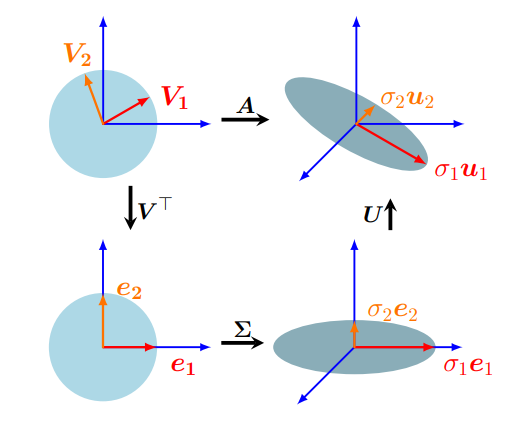
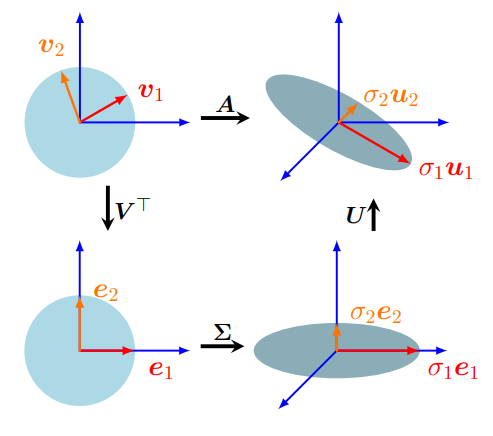
update ch4-6, ch4-7 and update contents of ch4-4, ch4-5

diff --git a/_posts/2022-07-17-ch4-6.md b/_posts/2022-07-17-ch4-6.md
@@ -1,0 +1,107 @@
+---
+layout: article
+aside:
+    toc: true
+sidebar:
+    nav: docs-en
+title: 6. Matrix Approximation
+---
+
+# Matrix Approximation
+
+4.5장을 통해 행렬 $\boldsymbol{A}\in\mathbb{R}^{m\times n}$ 를 3개의 행렬($\boldsymbol{U\Sigma V}^\top$) 곱으로 분해하는 SVD에 대해 알아봤습니다. 이때, 행렬 $\boldsymbol{U}\in\mathbb{R}^{m\times m}$ 과 $\boldsymbol{V}\in\mathbb{R}^{n\times n}$ 는 orthogonal이며, $\boldsymbol{\Sigma}$ 는 주대각 성분이 singular value인 행렬입니다.
+
+이번 장에서는 Full SVD factorization을 수행하는 대신, 행렬 $\boldsymbol{A}$ 를 더 간단한(low-rank) 행렬 $\boldsymbol{A}_i$ 들의 합으로 SVD를 나타내는 것에 대해 살펴봅니다. 이는 matrix approximation으로 full SVD 보다 연산량이 적습니다.
+
+Rank-1 행렬 $\boldsymbol{A}\in\mathbb{R}^{m\times n}$ 은 다음과 같이 구성합니다.
+
+$$ \boldsymbol{A}_i := \boldsymbol{u}_i\boldsymbol{v}_i^\top \tag{4.90} $$
+
+이는 $\boldsymbol{U}$ 와 $\boldsymbol{V}$ 의 i번째 orthogonal column vector의 외적(outer product) 입니다.
+
+<div align="center"><img src="{{ site.baseurl }}/assets/images/figures/figure4.11.png" height=300px></div>
+
+위 그림은 스톤헨지 사진을 행렬 $\boldsymbol{A}\in\mathbb{R}^{1432\times1910}$ 로 나타낸 것이며 식 (4.90)에 의해 정의되는 몇 가지 외적 $\boldsymbol{A}_i$ 을 보여줍니다.
+
+Rank $r$ 의 행렬 $\boldsymbol{A}\in\mathbb{R}^{m\times n}$ 은 rank-1 행렬 $\boldsymbol{A}_i$ 의 합으로 다음과 같이 나타낼 수 있습니다.
+
+$$ \boldsymbol{A} = \sum_{i=1}^r \sigma_i\boldsymbol{u}_i\boldsymbol{v}_i^\top = \sum_{i=1}^r\sigma_i\boldsymbol{A}_i \tag{4.91} $$
+
+위 식은 $\boldsymbol{A}\_i$ 와 singular value $\sigma_i$ 의 가중합으로 표현됩니다. Singular value matrix $\boldsymbol{\Sigma}$ 의 대각 구조는 오직 일치하는 left/right-singular vectors $\boldsymbol{u}\_i\boldsymbol{v}\_i^\top$ 과 곱해지고 대응되는 singular value $\sigma_i$ 로 scaling 되기 때문에 성립합니다. $\boldsymbol{\Sigma}$ 는 대각행렬이기 때문에 $i \neq j$ 인 모든 $\sum_{ij}\boldsymbol{u}_i\boldsymbol{v}_j^\top$ 항은 사라집니다. 또한, $i > r$ 인 모든 항은 대응되는 singular value가 0이기 때문에 사라지게 됩니다.
+
+식 (4.90)에서 rank-1 행렬 $\boldsymbol{A}_i$ 를 도입했고, 이들 더해서 rank-r 행렬 $\boldsymbol{A}$ 를 얻었습니다. 만약 모든 행렬 $\boldsymbol{A}_i, i = 1, \dotsc, r$ 이 더해지지 않고 중간값 $k < r$ 까지 더해진다면, $\boldsymbol{A}$ 의 ***rank-r approximation*** 을 얻게 됩니다.
+
+$$ \hat{\boldsymbol{A}}(k) := \sum_{i=1}^k\sigma_i\boldsymbol{u}_i\boldsymbol{v}_i^\top = \sum_{i=1}^k\sigma_i\boldsymbol{A}_i \tag{4.92} $$
+
+이때, $\text{rk}(\hat{\boldsymbol{A}}(k)) = k$ 입니다. 아래 그림은 원본 이미지 $\boldsymbol{A}$ 의 low-rank approximations $\hat{\boldsymbol{A}}(k)$ 를 보여줍니다.
+
+<div align="center"><img src="{{ site.baseurl }}/assets/images/figures/figure4.12.png" height=300px></div>
+
+위 그림을 잘 살펴보면 rank-5 approximation로 갈수록 바위의 모양이 더 명확해진다는 것을 알 수 있습니다. 원본 이미지에서는 $1,432\times1,910=2,735,120$ 개의 값이 필요하지만, rank-5 approximation에서는 오직 5개의 singular values와 5개의 left/right-singular vectors만 저장하면 됩니다. 따라서, rank-5 approximation에서는 $5\cdot(1,432 + 1,910 + 1) = 16,715$ 개의 숫자만 저장하면 되고 이는 원본의 0.6% 정도 입니다.
+
+$\boldsymbol{A}$ 와 $\boldsymbol{A}$ 의 rank-$k$ approximation $\hat{\boldsymbol{A}}(k)$ 의 차이(error)를 측정하려면 *norm*의 개념이 필요합니다 ([3.1장]({{ site.baseurl }}/2022/07/07/ch3-1.html) 참조). 3.1장에서는 vector에 대한 norm을 사용하여 vector의 length를 측정했습니다. 이를 통해서 행렬에 대한 norm을 정의할 수 있습니다.
+
+> **Definition 4.23** (Spectral Norm of a Matrix).
+> <br>
+> 모든 $\boldsymbol{x}\in\mathbb{R}^n\backslash\lbrace\boldsymbol{0}\rbrace$ 에 대해, 행렬 $\boldsymbol{A}\in\mathbb{R}^{m\times n}$ 의 ***spectral norm*** 은 다음과 같이 정의됩니다.
+> 
+> $$ \|\boldsymbol{A}\|_2 := \max_x \frac{\|\boldsymbol{Ax}\|_2}{\|x\|_2} \tag{4.93} $$
+
+우항에 있는 벡터에 대한 Euclidean norm에서 아래 첨자가 2인 것과 유사하게, 좌항의 행렬의 norm에도 아래첨자를 적어줍니다. 식 (4.93)의 spectral norm은 vector $\boldsymbol{x}$ 에 행렬 $\boldsymbol{A}$ 를 곱했을 때의 최대 길이를 결정합니다.
+
+> **Theorem 4.24**. $\boldsymbol{A}$ 의 *spectral norm* 은 $\boldsymbol{A}$ 의 가장 큰 singular value $\sigma_1$ 입니다.
+
+Theorem 4.24는 아래에서 Example을 통해 증명하도록 하겠습니다.
+
+> **Theorem 4.25** (Eckart-Young Theorem). Rank-r인 행렬 $\boldsymbol{A}\in\mathbb{R}^{m\times n}$ 과 rank-k인 행렬 $\boldsymbol{B}\in\mathbb{R}^{m\times n}$ 이 있고 $k \leq r$ 일 때, 다음의 식이 성립합니다.
+> 
+> $$ \begin{align*} \hat{\boldsymbol{A}}(k) &= \arg\min{}_{\text{rk}(B)=k} \|\boldsymbol{A} -\boldsymbol{B}\|_2 \tag{4.94} \\ \|\boldsymbol{A}-\hat{\boldsymbol{A}}(k)\|_2 &= \sigma_{k+1} \tag{4.95} \end{align*} $$
+
+Eckart-Young theorem은 rank-k approximation을 사용하여 $\boldsymbol{A}$ 를 근사했을 때, error가 얼만큼 발생하는지 나타냅니다. SVD를 통해 얻은 rank-k approximation은 full-rank matrix $\boldsymbol{A}$ 로부터 더 낮은 차원인 최대 rank-k 행렬로의 projection으로 해석할 수 있습니다. 모든 가능한 projections 에서 SVD는 $\boldsymbol{A}$ 와 rank-k approximation 간의 error(by spectral norm)를 최소화합니다.
+
+<br>
+
+식 (4.95)가 왜 성립하는지 이해하기 위해 몇 가지 단계를 되돌아가보도록 하겠습니다. $\boldsymbol{A} - \hat{\boldsymbol{A}}(k)$ 간의 차이는 rank-k approximation에 사용되고 남은 나머지 rank-1 행렬들의 합이라는 것을 확인할 수 있습니다.
+
+$$ \boldsymbol{A}-\hat{\boldsymbol{A}}(k) = \sum_{i=k+1}^r\sigma_i\boldsymbol{u}_i\boldsymbol{v}_i^\top \tag{4.96} $$
+
+Theorem 4.24에 의해, 이 difference matrix의 spectral norm이 $\sigma_{k+1}$ 라는 것을 알 수 있습니다. 이제 식 (4.94)를 조금 더 자세히 살펴보겠습니다. 만약 또 다른 행렬 $\boldsymbol{B}$ ($\text{rk}(\boldsymbol{B}) \leq k$) 가 다음을 만족한다면,
+
+$$ \|\boldsymbol{A}-\boldsymbol{B}\|_2 < \|\boldsymbol{A}-\hat{\boldsymbol{A}}(k)\|_2 \tag{4.97} $$
+
+적어도 (n-k)-차원인 null space $Z\subseteq\mathbb{R}^n$ 이 존재합니다. 만약 $\boldsymbol{x} \in Z$ 라면 $\boldsymbol{Bx} = 0\boldsymbol{0}$ 을 만족하며, 이는 다음 식을 만족시킵니다.
+
+$$ \|\boldsymbol{Ax}\|_2 = \|(\boldsymbol{A}-\boldsymbol{B})\boldsymbol{x}\|_2 \tag{4.98} $$
+
+그리고 행렬의 norm에 Cauchy-Schwartz inequality ([3.17]({{ site.baseurl }}/2022/07/08/ch3-3.html))를 적용하여 다음의 식을 얻습니다.
+
+$$ \|\boldsymbol{Ax}\|_2 \leq \|\boldsymbol{A}-\boldsymbol{B}\|_2\|\boldsymbol{x}\|_2 < \sigma_{k+1}\|\boldsymbol{x}\|_2 \tag{4.99} $$
+
+그러나 $\\|\boldsymbol{Ax}\\|\_2 \geq \sigma_{k+1}\\|\boldsymbol{x}\\|_2$ 인 (k+1)-차원의 subspace가 존재하며, 이 subspace는 $\boldsymbol{A}$ 의 right-sigular vectors $\boldsymbol{v}_j, j \leq k+1$ 에 의해 span 됩니다. 두 spaces에 nonzero vector가 존재해야 하기 때문에 두 spaces의 차원을 더하면 $n$보다 큰 값이 나옵니다. 이는 [2.7.3장]()의 rank-nullity theorem (Theorem 2.24)와 모순됩니다. **(완벽히 이해는 되지 않는 부분입니다 ㅠ.ㅠ)**
+
+Eckart-Young theorem은 SVD를 사용하여 principled,optimal한 방식으로 rank-$r$ 인 행렬 $\boldsymbol{A}$ 를 rank-$k$ 행렬 $\hat{\boldsymbol{A}}$ 로 줄일 수 있다는 것을 의미합니다. 이는 rank-$k$ 행렬로의 approximation을 lossy compression의 한 형태로 해석할 수 있습니다. 따라서, 행렬의 low-rank approximation은 image processing, noise filtering, regularization of ill-posed problems 와 같은 머신러닝 applications에서 사용됩니다. 또한, 10장에서 살펴볼 dimensionality reduction이나 PCA에서 핵심적인 역할을 수행합니다.
+
+<br>
+
+> **Example 4.15** (Finding Structure in Movie Ratings and Comsumers)
+> <br>
+> [4.5장]({{ site.baseurl }}/2022/07/16/ch4-5.html#eigenvalue-decomposition-vs-singular-value-decomposition)에서 살펴본 Example 4.14에서 살펴본 original data matrix를 low-rank approximation을 사용하여 근사해보도록 하겠습니다. Example 4.14에서 첫 번째 singular value는 science fiction theme와 science fiction을 선호하는 사람들에 대한 notion을 포착했습니다. 따라서 movie-rating matrix의 rank-1 decomposition에 오직 첫 번째 singular value term만을 사용하여, 다음과 같이 predicated ratings를 얻을 수 있습니다.
+> 
+> $$ \begin{align*} \boldsymbol{A}_1 &= \boldsymbol{u}_1\boldsymbol{v}_1^\top = \begin{bmatrix}-0.6710\\-0.7197\\-0.0939\\-0.1515\end{bmatrix}\begin{bmatrix}-0.7367&-0.6515&-0.1811\end{bmatrix} \tag{4.100a} \\ &= \begin{bmatrix}0.4943&0.4372&0.1215\\0.5302&0.4689&0.1303\\0.0692&0.0612&0.0170\\0.1116&0.0987&0.0274\end{bmatrix} \tag{4.100b} \end{align*} $$
+> 
+> 이렇게 구한 rank-1 approximation $\boldsymbol{A}_1$ 은 Ali(첫 번째 열)와 Beatrix(두 번째 열)가 *Star Wars*(첫 번째 행)나 *Bladerunner*(두 번째 행) 와 같은 science fiction 영화를 좋아한다는 것을 말해줍니다 (각 요소의 값이 0.4 이상). 그러나, Chandra(세 번재 열)의 ratings를 예측하는 것은 실패했습니다.
+> 
+> 이는 자연스러운 결과인데, 첫 번째 singular value에서 Chandra가 좋아하는 타입의 영화는 포착되지 않았기 때문입니다. 두 번째 singular value에 대해 rank-1 approximation을 적용하면 chandra가 좋아하는 영화 타입을 좋아하는 사람들에 대해 예측 ratings를 구할 수 있습니다.
+> 
+> $$ \begin{align*} \boldsymbol{A}_2 &= \boldsymbol{u}_2\boldsymbol{v}_2^\top = \begin{bmatrix}0.0236\\0.2054\\-0.7705\\-0.6030\end{bmatrix}\begin{bmatrix}0.0852&0.1762&-0.9807\end{bmatrix} \tag{4.101a} \\ &= \begin{bmatrix}0.0020&0.0042&-0.0231\\0.0175&0.0362&-0.2014\\-0.0656&-0.1358&0.7556\\-0.0514&-0.1063&0.5914\end{bmatrix} \tag{4.101b} \end{align*} $$
+> 
+> 두 번째 rank-1 approximation $\boldsymbol{A}_2$ 에서는 Chandra가 선호는 영화에 대한 rating을 담고 있다는 것을 알 수 있습니다. 위에서 구한 두 rank-1 approximation을 통해 rank-2 approximation $\hat{\boldsymbol{A}}(2)$ 를 도출해낼 수 있는데, 두 rank-1 approximation을 다음과 같이 결합하면 됩니다.
+> 
+> $$ \hat{\boldsymbol{A}}(2) = \sigma_1\boldsymbol{A}_1 + \sigma_2\boldsymbol{A}_2 = \begin{bmatrix}4.7801&4.2419&1.0244\\5.2252&4.7522&-0.0250\\0.2493&-0.2743&4.9724\\0.7495&0.2756&4.0278\end{bmatrix} \tag{4.102} $$
+> 
+> $\hat{\boldsymbol{A}}(2)$ 는 original ratings 테이블과 유사합니다.
+> 
+> $$ \boldsymbol{A} = \begin{bmatrix}5&4&1\\5&5&0\\0&0&5\\1&0&4\end{bmatrix} \tag{4.103} $$
+> 
+> 이러한 결과는 $\boldsymbol{A}_3$ 을 무시할 수 있다는 것을 의미하며, 데이터 테이블에는 세 번째 movie theme나 세 번째 movie lover 카테고리가 없다는 것으로 해석할 수 있습니다. 또한, 이 예제에서 movie theme/movie-lover 의 전체 space는 science fiction/French art house movie/lover로 span되는 2차원 space라는 것을 의미합니다.
+

diff --git a/_posts/2022-07-15-ch4-4.md b/_posts/2022-07-15-ch4-4.md
@@ -17,7 +17,7 @@ $$ \boldsymbol{D} = \begin{bmatrix}c_{1}&\cdots&0\\\vdots&\ddots&\cdots\\0&\cdot
 
 4.4장에서는 행렬을 대각 행렬의 형태로 변환하는 방법에 대해 살펴봅니다. 여기에서 2.7.2장에서 논의한 basis change와 4.2장에서 살펴본 eigenvalues가 활용됩니다.
 
-만약 $\boldsymbol{D} = \boldsymbol{P}^{-1}\boldsymbol{AP}$ 를 만족시키는 역행렬이 존재하는 행렬 $\boldsymbol{P}$ 가 존재할 때, 두 행렬 $\boldsymbol{A},\boldsymbol{D}$ 는 similar (definition 2.20 참조) 합니다.
+만약 $\boldsymbol{D} = \boldsymbol{P}^{-1}\boldsymbol{AP}$ 를 만족시키는 역행렬이 존재하는 행렬 $\boldsymbol{P}$ 가 존재할 때, 두 행렬 $\boldsymbol{A},\boldsymbol{D}$ 는 similar ([2.7.2장]({{ site.baseurl }}/2022/07/05/ch2-7.html#basis-change) Definition 2.22 참조) 합니다.
 
 조금 더 구체적으로 대각 요소들이 $\boldsymbol{A}$ 의 eigenvalue인 대각 행렬 $\boldsymbol{D}$ 에 similar 한 $\boldsymbol{A}$ 에 대해 살펴보도록 하겠습니다.
 
@@ -25,7 +25,7 @@ $$ \boldsymbol{D} = \begin{bmatrix}c_{1}&\cdots&0\\\vdots&\ddots&\cdots\\0&\cdot
 > <br>
 > 만약 행렬 $\boldsymbol{A} \in \mathbb{R}^{n\times n}$ 가 diagonal matrix와 similar 한다면, 즉, $\boldsymbol{D} = \boldsymbol{P}^{-1}\boldsymbol{AP}$ 를 만족시키는 역행렬이 존재하는 행렬 $\boldsymbol{P}$ 가 존재한다면, 행렬 $\boldsymbol{A}$ 를 ***diagonalizable***, 즉, 대각화가 가능하다고 말합니다.
 
-이어서 행렬 $\boldsymbol{A}$ 를 대각화하는 것은 다른 basis의 동일한 linear mapping이며, 이 basis는 결국 $\boldsymbol{A}$ 의 eigenvector로 구성되어 있다는 것을 확인할 수 있습니다.
+이어서 행렬 $\boldsymbol{A}$ 를 대각화하는 것은 다른 basis의 동일한 linear mapping이며, 이 basis는 결국 $\boldsymbol{A}$ 의 eigenvector로 구성되어 있다는 것을 확인해보도록 하겠습니다.
 
 $\boldsymbol{A}\in\mathbb{R}^{n\times n}$ 이 있고, $\lambda_1, \dotsc, \lambda_n$ 은 스칼라들의 집합, $\boldsymbol{p}_1, \dotsc, \boldsymbol{p}_n$ 은 $\mathbb{R}^n$ 에서의 벡터 집합이라고 합시다. 그리고 $\boldsymbol{P} := \lbrack\boldsymbol{p}_1, \dotsc, \boldsymbol{p}_n\rbrack$ 를 정의하고, $\boldsymbol{D} \in \mathbb{R}^{n\times n}$ 을 대각 요소들이 $\lambda_1,\dotsc,\lambda_n$ 인 대각 행렬이라고 정의합니다.
 
@@ -37,13 +37,13 @@ $$ \boldsymbol{AP} = \boldsymbol{PD} \tag{4.50} $$
 
 $$ \begin{align*} \boldsymbol{AP} &= \boldsymbol{A}\lbrack\boldsymbol{p}_1,\dotsc,\boldsymbol{p}_n\rbrack = \lbrack\boldsymbol{Ap}_1,\dotsc,\boldsymbol{Ap}_n\rbrack \tag{4.51} \\ \boldsymbol{PD} &= \lbrack\boldsymbol{p}_1,\dotsc,\boldsymbol{p}_n\rbrack\begin{bmatrix}\lambda_1&&0\\&\ddots&\\0&&\lambda_n\end{bmatrix} = \lbrack\lambda_1\boldsymbol{p}_1,\dotsc,\lambda_n\boldsymbol{p}_n\rbrack \tag{4.52} \end{align*} $$
 
-따라서, 위 식들에 의해서 (4.50)은 다음이 성립한다는 것을 알 수 있으며,
+따라서, 위 식들에 의해서 (4.50)이 다음과 같이 성립된다는 것을 알 수 있으며,
 
 $$ \begin{align*} \boldsymbol{Ap}_1 = \lambda_1\boldsymbol{p}_1 \tag{4.53} \\ \vdots \\ \boldsymbol{Ap}_n = \lambda_n\boldsymbol{p}_n \tag{4.54} \end{align*} $$
 
 즉, $\boldsymbol{P}$ 의 column들은 반드시 $\boldsymbol{A}$ 의 eigenvectors 입니다.
 
-Diagonalization의 정의는 $\boldsymbol{P} \in \mathbb{R}^{n\times n}$ 이 invertible하다는 것을 요구합니다. 즉, $\boldsymbol{P}$ 는 full rank이어야 합니다 (Theorem 4.3 참조). 이는 결국 n개의 linearly indepedent eigenvectors $\boldsymbol{p}_1,\dotsc, \boldsymbol{p}_n$ 을 요구하는 것이며, 따라서, $\boldsymbol{p}_i$ 는 $\mathbb{R}^n$ 의 basis를 형성합니다.
+Diagonalization의 정의는 행렬 $\boldsymbol{P} \in \mathbb{R}^{n\times n}$ 가 invertible하다는 것을 필요로 합니다. 즉, $\boldsymbol{P}$ 는 full rank이어야 합니다 (Theorem 4.3 참조). 이는 결국 n개의 linearly indepedent eigenvectors $\boldsymbol{p}_1,\dotsc, \boldsymbol{p}_n$ 을 요구하는 것이며, 따라서, $\boldsymbol{p}_i$ 는 $\mathbb{R}^n$ 의 basis를 형성합니다.
 
 > **Theorem 4.20** (Eigendecomposition). Square matrix $\boldsymbol{A} \in \mathbb{R}^{n\times n}$ 은 $\boldsymbol{A}$ 의 *eigenvectors*가 $\boldsymbol{R}^n$ 의 basis를 형성할 때, 다음과 같이 분해될 수 있습니다.
 > 
@@ -71,17 +71,17 @@ Theorem 4.21은 spectral theorem 4.15([4.2장]({{ site.baseurl }}/2022/07/13/ch4
 
 > **Example 4.11** (Eigendecomposition)
 > <br>
-> $\boldsymbol{A} = \begin{bmatrix}2&1\\\1&2\end{bmatrix}$ 의 eigendecomposition을 계산해보도록 하겠습니다.
+> $\boldsymbol{A} = \frac{1}{2}\begin{bmatrix}5&-2\\\ -2&5\end{bmatrix}$ 의 eigendecomposition을 계산해보도록 하겠습니다.
 > 
 > **Step 1: Compute eigenvalues and eigenvectors.**
 > <br>
 > $\boldsymbol{A}$ 의 특성 다항식(characteristic polynomial; [4.1장]({{ site.baseurl }}/2022/07/12/ch4-1.html) 참조)을 통해 eigenvalues를 구합니다.
 > 
-> $$ \begin{align*} \det(\boldsymbol{A}-\lambda\boldsymbol{I}) &= \det\left(\begin{bmatrix}2-\lambda&1\\1&2-\lambda\end{bmatrix}\right) \tag{4.56a} \\ &= (2-\lambda)^2 - 1 = \lambda^2-4\lambda+3=(\lambda-3)(\lambda-1) \tag{4.56b} \end{align*} $$
+> $$ \begin{align*} \det(\boldsymbol{A}-\lambda\boldsymbol{I}) &= \det\left(\begin{bmatrix}\frac{5}{2}-\lambda&-1\\-1&\frac{5}{2}-\lambda\end{bmatrix}\right) \tag{4.56a} \\ &= (\frac{5}{2}-\lambda)^2 - 1 = \lambda^2-5\lambda+\frac{21}{4}=(\lambda-\frac{7}{2})(\lambda-\frac{3}{2}) \tag{4.56b} \end{align*} $$
 > 
-> 따라서, $\boldsymbol{A}$ 의 eigenvalues는 $\lambda_1 = 1, \lambda_2=3$ 이며, 이와 연관된 eigenvectors는 다음의 식읕 통해 얻을 수 있습니다.
+> 따라서, $\boldsymbol{A}$ 의 eigenvalues는 $\lambda_1 = \frac{7}{2}, \lambda_2=\frac{3}{2}$ 이며, 이와 연관된 eigenvectors는 다음의 식읕 통해 얻을 수 있습니다.
 > 
-> $$ \begin{bmatrix}2&1\\1&2\end{bmatrix}\boldsymbol{p}_1 = 1\boldsymbol{p}_1, \quad \begin{bmatrix}2&1\\1&2\end{bmatrix}\boldsymbol{p}_2 = 3\boldsymbol{p}_2 \tag{4.57} $$
+> $$ \boldsymbol{Ap}_1 = \frac{7}{2}\boldsymbol{p}_1, \quad \boldsymbol{Ap}_2 = \frac{3}{2}\boldsymbol{p}_2 \tag{4.57} $$
 > 
 > 위 식을 풀면, 다음의 결과를 얻습니다.
 > 
@@ -99,11 +99,11 @@ Theorem 4.21은 spectral theorem 4.15([4.2장]({{ site.baseurl }}/2022/07/13/ch4
 > 
 > 그러면 다음의 식을 얻을 수 있습니다.
 > 
-> $$ \boldsymbol{P}^{-1}\boldsymbol{AP} = \begin{bmatrix}1&0\\0&3\end{bmatrix} = \boldsymbol{D} \tag{4.60} $$
+> $$ \boldsymbol{P}^{-1}\boldsymbol{AP} = \begin{bmatrix}\frac{7}{2}&0\\0&\frac{3}{2}\end{bmatrix} = \boldsymbol{D} \tag{4.60} $$
 > 
 > 또한, 이 예제에서 eigenvectors $\boldsymbol{p}_1$ 과 $\boldsymbol{p}_2$ 가 서로 ONB를 형성하기 때문에 $\boldsymbol{P}^{-1} = \boldsymbol{P}^\top$ 을 활용하여 다음의 식을 얻을 수 있습니다.
 > 
-> $$ \underbrace{\begin{bmatrix}2&1\\1&2\end{bmatrix}}_{\boldsymbol{A}} = \underbrace{\frac{1}{\sqrt{2}}\begin{bmatrix}1&1\\-1&1\end{bmatrix}}_{\boldsymbol{P}}\underbrace{\begin{bmatrix}1&0\\0&3\end{bmatrix}}_{\boldsymbol{D}}\underbrace{\frac{1}{\sqrt{2}}\begin{bmatrix}1&-1\\1&1\end{bmatrix}}_{\boldsymbol{P}^\top} \tag{4.61} $$
+> $$ \underbrace{\frac{1}{2}\begin{bmatrix}5&-2\\-2&5\end{bmatrix}}_{\boldsymbol{A}} = \underbrace{\frac{1}{\sqrt{2}}\begin{bmatrix}1&1\\-1&1\end{bmatrix}}_{\boldsymbol{P}}\underbrace{\begin{bmatrix}\frac{7}{2}&0\\0&\frac{3}{2}\end{bmatrix}}_{\boldsymbol{D}}\underbrace{\frac{1}{\sqrt{2}}\begin{bmatrix}1&-1\\1&1\end{bmatrix}}_{\boldsymbol{P}^{-1}} \tag{4.61} $$
 
 <br>
 

diff --git a/_posts/2022-07-16-ch4-5.md b/_posts/2022-07-16-ch4-5.md
@@ -11,7 +11,7 @@ title: 5. Singular Value Decomposition
 
 행렬의 singular value decomposition(SVD, 특잇값 분해)는 선형대수학에서 중심이 되는 matrix decomposition method 입니다. 이는 square matrix뿐만 아니라 모든 행렬에 대해 적용할 수 있고, 항상 존재하기 때문에 'fundamental theorem of linear algebra' 라고 불립니다. 또한, linear mapping $\Phi: V\rightarrow W$ 을 나타내는 행렬 $\boldsymbol{A}$ 의 SVD는 두 vector spaces의 기하학적 변화를 정량화합니다.
 
-> **Theorem 4.22** (SVD Theorem). 행렬 $\boldsymbol{A}\in\mathbb{R}^{m\times n}$ 이 *rank* $r \in \lbrack0, \min(m, n)\rbrack$ 인 *rectangular matrix*라 할 때, $\boldsymbol{A}$ 의 SVD는 아래 형태의 decomposition 입니다.
+> **Theorem 4.22** (SVD Theorem). 행렬 $\boldsymbol{A}\in\mathbb{R}^{m\times n}$ 가 *rank* $r \in \lbrack0, \min(m, n)\rbrack$ 인 *rectangular matrix*라 할 때, $\boldsymbol{A}$ 의 SVD는 아래 형태의 decomposition 입니다.
 > <div align="center"><img src="{{ site.baseurl }}/assets/images/figures/eq4.64.png" height=100px></div>
 > 
 > 이때, $\boldsymbol{U} \in \mathbb{R}^{m\times m}$ 는 column vectors $\boldsymbol{u}\_i, i=1,\dotsc,m$ 의 *orthogonal matrix* 이며, $\boldsymbol{V}\in\mathbb{R}^{n\times n}$ 은 column vectors $\boldsymbol{v}\_j, j = 1,\dotsc,n$ 의 *orthogonal matrix* 입니다. 또한, $\Sigma$ 는 $\Sigma_{ii} = \sigma_i \geq 0$ 이고 $\sum_{ij} = 0, i\neq j$ 인 $m \times n$ 행렬입니다.
@@ -45,7 +45,7 @@ SVD의 기하학적 직관은 표면적으로 eigendecomposition([4.4장]({{ sit
 
 $\mathbb{R}^n$ 과 $\mathbb{R}^m$ 의 standard basis $B, C$ 에 대한 linear mapping $\Phi: \mathbb{R}^n \rightarrow \mathbb{R}^m$ 의 transformation matrix가 주어졌다고 가정해보겠습니다. 또한, $\tilde{B}$ 는 $\mathbb{R}^n$ 의 second basis, $\tilde{C}$ 는 $\mathbb{R}^m$ 의 second basis라고 가정합니다.
 
-1. 행렬 $\boldsymbol{V}$ 는 domain $\mathbb{R}^n$ 에서 $\tilde{B}$ 로부터 $B$ 로의 basis change를 수행합니다. $\boldsymbol{V}^\top=\boldsymbol{V}^{-1}$ 은 $B$ 에서 $\tilde{B}$ 로의 basis change를 수행합니다. 이를 통해 Figure 4.8의 왼쪽 아래 그림에서 red/orange vectors가 canonical basis로 정렬됩니다.
+1. 행렬 $\boldsymbol{V}$ 는 domain $\mathbb{R}^n$ 에서 $\tilde{B}$ (Figure 4.8의 왼쪽 위 그림 red/orange vectors) 로부터 $B$ 로의 basis change를 수행합니다. $\boldsymbol{V}^\top=\boldsymbol{V}^{-1}$ 은 $B$ 에서 $\tilde{B}$ 로의 basis change를 수행합니다. 이를 통해 Figure 4.8의 왼쪽 아래 그림에서 red/orange vectors가 canonical basis로 정렬됩니다.
 2. 좌표계를 $\tilde{B}$ 로 변경한 뒤, $\Sigma$ 는 새로운 좌표를 singular values $\sigma_i$ 만큼 scaling 하고 차원을 더하거나 뺍니다. 즉, $\Sigma$ 는 $\tilde{B}$ 와 $\tilde{C}$ 에 대한 transformation matrix 입니다. 이를 Figure 4.8의 오른쪽 아래 그림에서 보여주고 있습니다. red/orange vectors가 scaling 되고, $\boldsymbol{e}_1-\boldsymbol{e}_2$ 평면에 놓여 있는 것을 볼 수 있으며, 2차원이 아닌 3차원으로 변경되었습니다.
 3. $\boldsymbol{U}$ 는 codomain $\mathbb{R}^m$ 에서 $\tilde{C}$ 로부터 $\mathbb{R}^m$ 의 canonical basis 로의 basis change를 수행합니다. 이는 Figure 4.8의 오른쪽 위 그림에서 red/orange vectors가 $\boldsymbol{e}_1-\boldsymbol{e}_2$ 평면을 벗어나 회전한 것으로 표현하고 있습니다.
 
@@ -85,7 +85,7 @@ SPD matrix의 SVD와 eigendecomposition이 동일하다는 것을 볼 수 있습
 
 <br>
 
-이번에는 theorem 4.22가 왜 성립하고, SVD를 어떻게 만드는지 살펴보겠습니다. $\boldsymbol{A}\in\mathbb{R}^{m\times n}$ 의 SVD를 계산하는 것은 codomain $\boldsymbol{R}^m$ 의 orthonomal basis $U = (\boldsymbol{u}_1, \dotsc, \boldsymbol{u}_m)$ 과 domain $\boldsymbol{R}^n$ 의 orthonomal basis $V = (\boldsymbol{v}_1,\dotsc,\boldsymbol{v}_n)$ 를 찾는 것과 같습니다. 이렇게 찾은 ordered bases로부터, 우리는 행렬 $\boldsymbol{U}, \boldsymbol{V}$ 를 구성할 수 있습니다.
+이어서 theorem 4.22가 왜 성립하고, SVD를 어떻게 만드는지 살펴보겠습니다. $\boldsymbol{A}\in\mathbb{R}^{m\times n}$ 의 SVD를 계산하는 것은 codomain $\boldsymbol{R}^m$ 의 orthonomal basis $U = (\boldsymbol{u}_1, \dotsc, \boldsymbol{u}_m)$ 과 domain $\boldsymbol{R}^n$ 의 orthonomal basis $V = (\boldsymbol{v}_1,\dotsc,\boldsymbol{v}_n)$ 를 찾는 것과 같습니다. 이렇게 찾은 ordered bases로부터, 우리는 행렬 $\boldsymbol{U}, \boldsymbol{V}$ 를 구성할 수 있습니다.
 
 먼저 right-singular vectors $\boldsymbol{v}_1,\dotsc,\boldsymbol{v}_n$ 의 orthonormal 집합을 구성하는 것부터 시작합니다. 그리고, left-singular vectors $\boldsymbol{u}_1,\dotsc,\boldsymbol{u}_m$ 의 orthonormal 집합을 구성합니다. 그 후, $\boldsymbol{A}$ 의 transformation 에서도 $\boldsymbol{v}_i$ 의 orthogonality(직교성)이 보존되도록 두 singular vectors를 연결합니다. 이는 images $\boldsymbol{Av}_i$ 가 orthogonal vectors 집합을 형성한다는 것을 알고 있기 때문에 중요합니다. 그런 다음 $\boldsymbol{Av}_i$ 를 scalar factors로 정규화(normalization) 하는데, 이 scalar factors는 singular values가 됩니다.
 

diff --git a/_posts/2022-07-17-ch4-7.md b/_posts/2022-07-17-ch4-7.md
@@ -1,0 +1,30 @@
+---
+layout: article
+aside:
+    toc: true
+sidebar:
+    nav: docs-en
+title: 7. Matrix Phylogeny
+---
+
+# Matrix Phylogeny
+
+2장과 3장에서는 linear algebra와 analytic geometry에 대해 살펴봤습니다. 그리고 4장에서는 matrix와 linear mapping의 기본적인 특성에 대해 살펴봤습니다.
+
+<div align="center"><img src="{{ site.baseurl }}/assets/images/figures/figure4.13.png" height=500px></div>
+
+위 그림은 다양한 타입의 행렬과 이 행렬들에서 수행할 수 있는 연산들(파란색 글씨) 간의 관계를 트리로 보여줍니다. 검정색 화살표는 "is a subset of"를 의미합니다.
+
+일단 우리는 모든 실수 행렬(*real matrices*) $\boldsymbol{A}\in\mathbb{R}^{n\times m}$ 대해 고려합니다.
+
+Non-spuare matrices (where $n\neq m$) 에서 SVD는 항상 존재하며, 이는 4장에서 살펴봤습니다.
+
+*Square matrices* $\boldsymbol{A}\in\mathbb{R}^{n\times n}$ 에서 *determinant* 는 역행렬(inverse matrix)의 존재 여부를 알려줍니다. 즉, 행렬 $\boldsymbol{A}$ 가 regular, invertible matrices 에 속하는지 판단합니다. 만약 $n\times n$ 행렬이 n개의 linearly independent eigenvectors를 가지고 있다면, 이 행렬은 *non-defective* 이고 *eigendecomposition* (Theorem 4.12) 이 존재합니다. 그리고, repeated eigenvalues가 있다면 그 행렬은 *defective matrics* 이고 대각화가 불가능합니다.
+
+Non-singular 행렬과 non-defective 행렬은 같지 않습니다. 예를 들어, rotation matrix는 invertible (determinant is nonzero) 하지만 대각화(in the real numbers)는 불가능할 수 있습니다 (eigenvalue가 실수라는 것을 보장하지 못함).
+
+Non-defective인 square $n\times n$ 행렬로 더 들어가서, $\boldsymbol{A}^\top\boldsymbol{A} = \boldsymbol{AA}^\top$ 을 만족할 때, $\boldsymbol{A}$ 는 *normal* 하다라고 합니다. 만약 $\boldsymbol{A}^\top\boldsymbol{A} = \boldsymbol{AA}^\top = \boldsymbol{I}$ 를 만족하면, $\boldsymbol{A}$ 는 *orthogonal* (Definition 3.8 참조)하다고 합니다. Orthogonal matrices 집합은 regular (invertible) matrices의 subset이며, $\boldsymbol{A}^\top = \boldsymbol{A}^{-1}$ 을 만족합니다.
+
+Normal 행렬에 속하는 행렬 중에는 $\boldsymbol{S} = \boldsymbol{S}^\top$ 을 만족하는 대칭행렬(symmetric matrices) $\boldsymbol{S}\in\mathbb{R}^{n\times n}$ 이 있습니다. 대칭행렬에는 오직 실수인 eigenvalues만 있습니다. 대칭행렬의 부분집합은 모든 $\boldsymbol{x}\in\mathbb{R}^n\backslash\lbrace\boldsymbol{0}\rbrace$ 에 대해 $\boldsymbol{x}^\top\boldsymbol{Px} > 0$ 를 만족하는 positive definit matrices $\boldsymbol{P}$ 로 구성됩니다. 이러한 경우, *Cholesky decomposition* (Theorem 4.18)이 존재합니다. Positive definite matrices는 오직 positive eigenvalues만을 가지며, 항상 invertible 합니다(nonzero determinant).
+
+대칭행렬의 다른 부분집합은 대각행렬(*Diagonal matrices*) $\boldsymbol{D}$ 로 구성됩니다. 대각행렬은 곱셈과 덧셈에 닫혀있지만, 항상 group(군)을 형성하는 것은 아니며, 오직 모든 대각 성분이 nonzero일 때만 군을 형성합니다. 특별한 대각행렬로는 단위행렬(identity matrix) $\boldsymbol{I}$ 가 있습니다.
